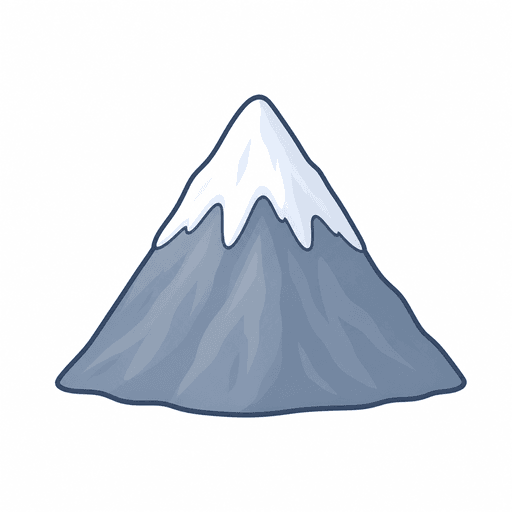
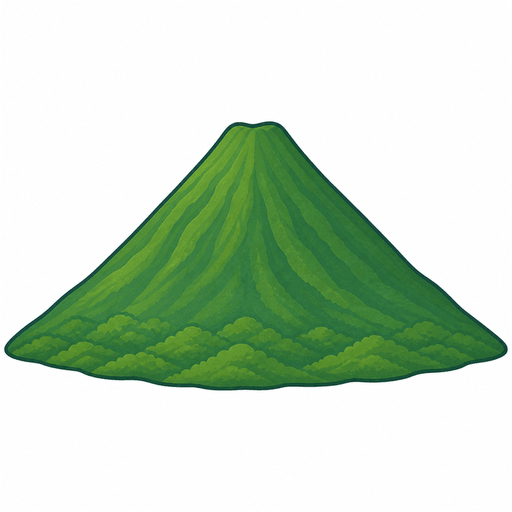
Replace mountain card image with new green mountain artwork
Optimized to 512x512 palette PNG (991KB -> 73KB) with sharp.
Update english_prompt to match (no longer snow-capped) and bump
CACHE_NAME to v10 so installed PWAs pick up the new image.

diff --git a/sw.js b/sw.js
@@ -1,7 +1,7 @@
 // Service Worker for kotoba-card (ST絵カード呼称トレーニング)
 // 全アセットを初回訪問時にキャッシュし、以降オフラインで動作させる
 
-const CACHE_NAME = 'kotoba-card-v9';
+const CACHE_NAME = 'kotoba-card-v10';
 
 const SHELL_ASSETS = [
   './',
